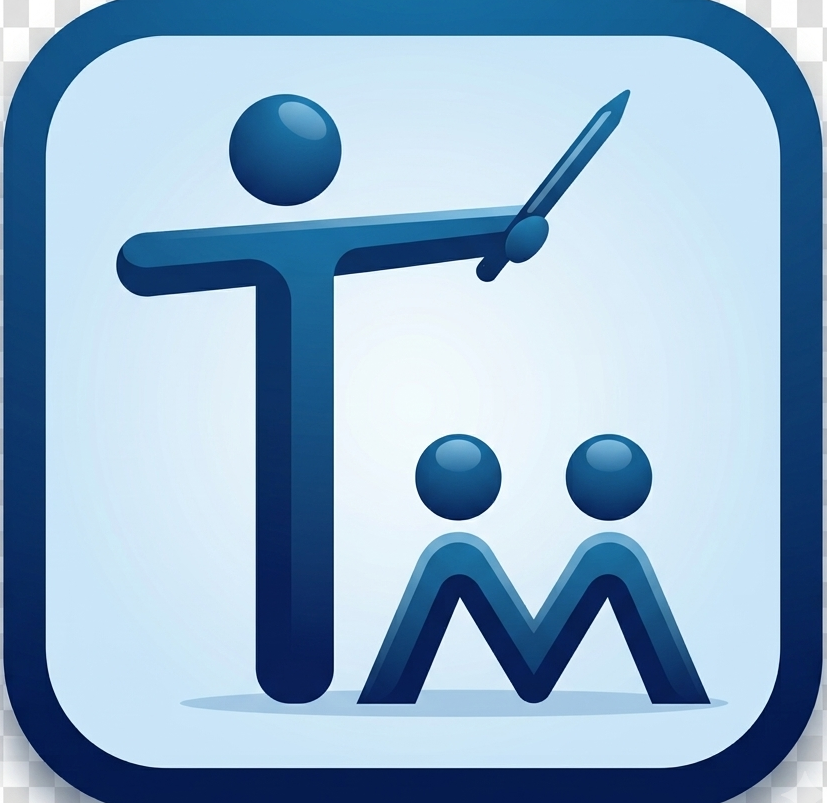
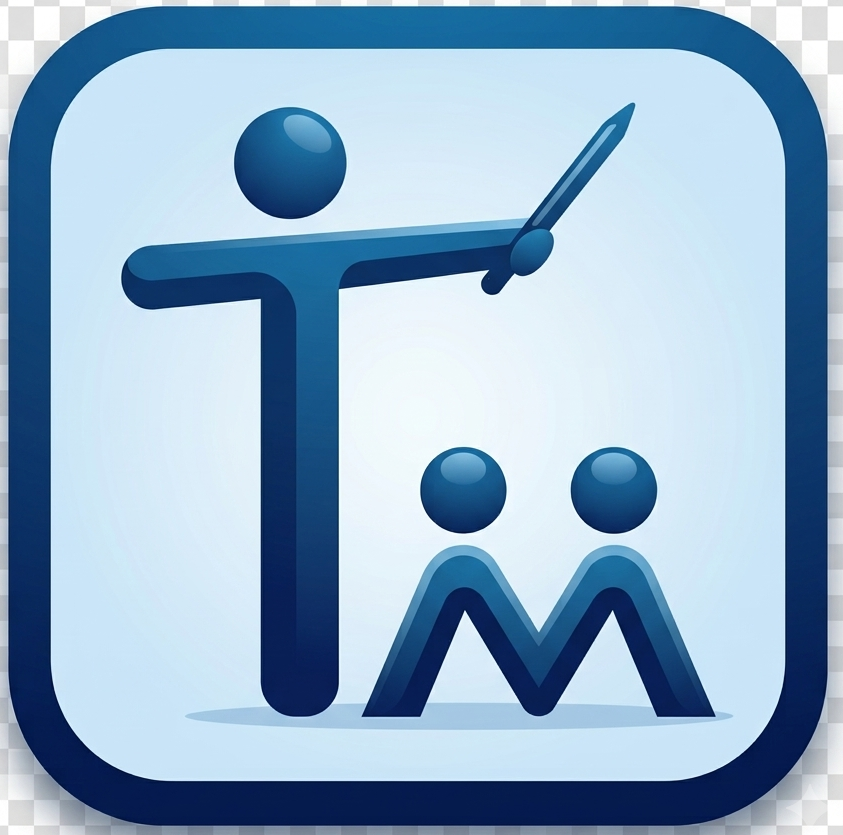
Lock Flet and Flutter versions for stable build

diff --git a/main.py b/main.py
@@ -185,8 +185,7 @@ def main(page: ft.Page):
                 open_chat_with_teacher(page.admin_selected_chat_tutor_id)
                 refresh_teacher_chat_view()
 
-    chat_image_picker = ft.FilePicker()
-    chat_image_picker.on_result = on_chat_image_selected
+    chat_image_picker = ft.FilePicker(on_result=on_chat_image_selected)
     page.overlay.append(chat_image_picker)
 
     def select_and_send_image(sender_type):